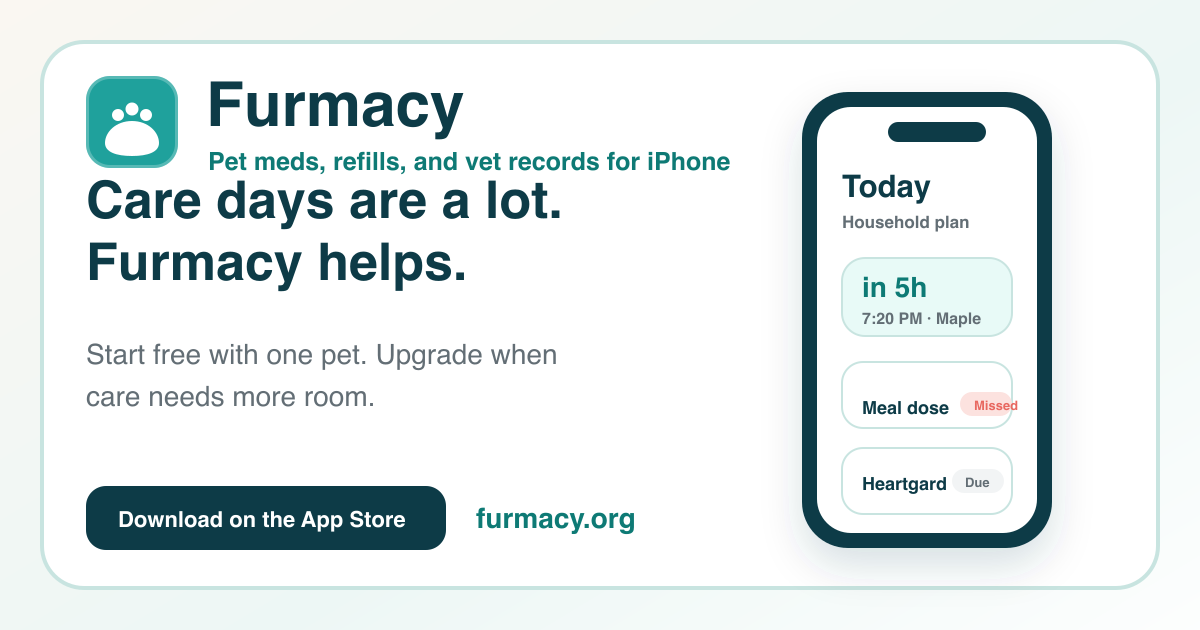
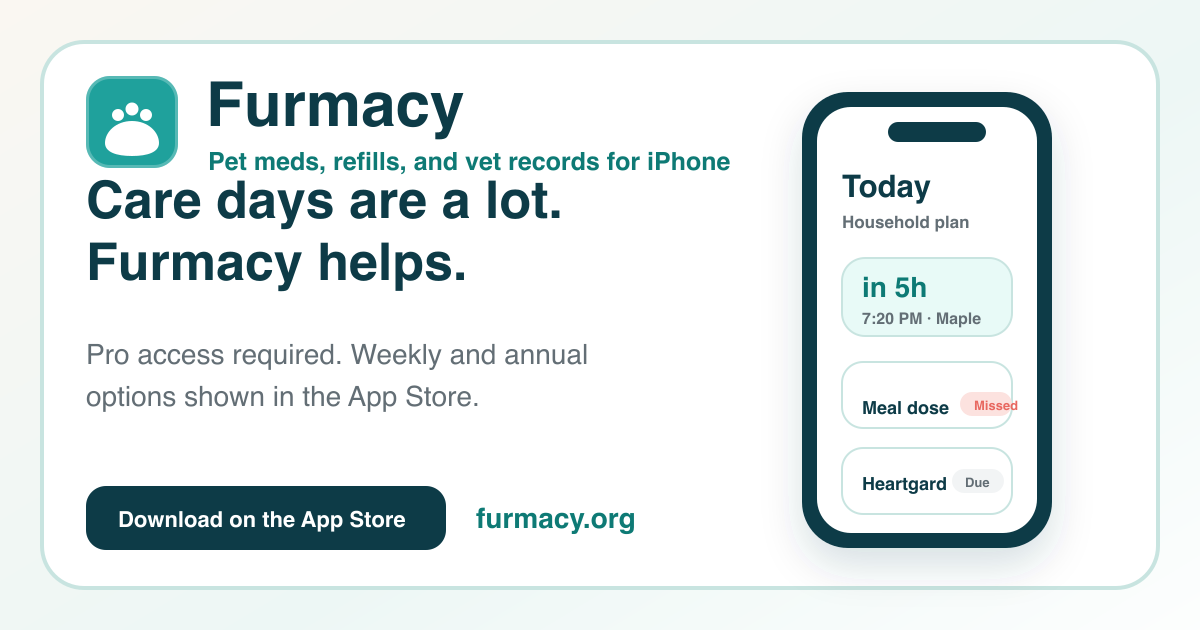
Update Furmacy paid-access website copy

Changed region(s): [[0.0617, 0.5429, 0.4933, 0.6635]]

diff --git a/lib/marketing.ts b/lib/marketing.ts
@@ -7,6 +7,115 @@ export const launchPricing = {
   summary: "Weekly and annual Pro options; annual includes a 14-day trial for eligible subscribers.",
 } as const;
 
+export const offerMode = "paidOnly" as const;
+
+export const offerCopyByMode = {
+  paidOnly: {
+    highlights: [
+      "Now on the App Store",
+      "Pro access required",
+      "Built for iPhone",
+      "No Furmacy account",
+    ],
+    heroBody:
+      "When your dog, cat, or other companion needs ongoing care, Furmacy gives you a gentle place to track what is due, what happened, refills, weight and symptom notes, and vet records. Download it on iPhone and choose Pro access to use the care tools.",
+    heroBullets: [
+      "See what needs attention today",
+      "Mark Given, Skip, Pending, or Missed",
+      "Keep refills and vet records close",
+      "Choose weekly or annual Pro access",
+    ],
+    heroFinePrint:
+      "Furmacy currently requires Pro access. Pro offers weekly and annual options; annual includes a 14-day trial for eligible subscribers. Exact live pricing is shown before purchase in the App Store. Furmacy is not veterinary advice.",
+    screenshotCalloutTitle: "Care routines, easier to follow",
+    screenshotCalloutBody:
+      "A calmer place for doses, refills, notes, weight, symptoms, and records when your pet needs steady follow-through.",
+    proHeading: "Furmacy currently requires Pro access.",
+    proSubtitle:
+      "Download Furmacy from the App Store, then choose weekly or annual Pro access to use reminders, records, history, and sync.",
+    planComparison: [
+      {
+        name: "Pro access",
+        note: "Required to use Furmacy",
+        items: [
+          "Medication reminders",
+          "Dose states and history",
+          "Refills, weight, symptoms, and vet records",
+          "Weekly or annual options",
+        ],
+      },
+      {
+        name: "Annual Pro",
+        note: "For ongoing care",
+        items: [
+          "14-day trial for eligible subscribers",
+          "Unlimited pets",
+          "Unlimited active medications",
+          "iCloud sync and expanded documents",
+        ],
+      },
+    ],
+    ctaTitle: "Ready for a calmer care routine?",
+    ctaBody:
+      "Download Furmacy from the App Store and choose Pro access when you are ready to keep meds, refills, history, and records in one place.",
+    rollbackNote:
+      "Rollback path: change offerMode to onePetFree if the ad test moves back to a free starter plan.",
+  },
+  onePetFree: {
+    highlights: [
+      "Now on the App Store",
+      "One pet free",
+      "Built for iPhone",
+      "No account required",
+    ],
+    heroBody:
+      "When your dog, cat, or other companion needs ongoing care, Furmacy gives you a gentle place to track what is due, what happened, refills, weight and symptom notes, and vet records. Download it free on iPhone and start with one pet.",
+    heroBullets: [
+      "See what needs attention today",
+      "Mark Given, Skip, Pending, or Missed",
+      "Keep refills and vet records close",
+      "Upgrade only when care needs more room",
+    ],
+    heroFinePrint:
+      "Use the free one-pet plan as long as it fits. Pro offers weekly and annual options; annual includes a 14-day trial for eligible subscribers. Exact live pricing is shown before purchase in the App Store. Furmacy is not veterinary advice.",
+    screenshotCalloutTitle: "Care routines, easier to follow",
+    screenshotCalloutBody:
+      "A calmer place for doses, refills, notes, weight, symptoms, and records when your pet needs steady follow-through.",
+    proHeading: "Use it free for one pet. Upgrade only when you need more room.",
+    proSubtitle:
+      "Start with the core routine at no cost. Pro is there for bigger care setups: unlimited pets, unlimited active medications, iCloud sync, full history, and expanded documents.",
+    planComparison: [
+      {
+        name: "Free",
+        note: "Start with one pet",
+        items: [
+          "One pet",
+          "Medication reminders",
+          "Dose states",
+          "Refill, weight, symptom, and vet-record basics",
+        ],
+      },
+      {
+        name: "Pro",
+        note: "When care needs more room",
+        items: [
+          "Unlimited pets",
+          "Unlimited active medications",
+          "Full history",
+          "iCloud sync and expanded documents",
+        ],
+      },
+    ],
+    ctaTitle: "Care days are a lot. Furmacy helps make them easier to follow.",
+    ctaBody:
+      "Start free with one pet, then upgrade when unlimited pets, medications, full history, iCloud sync, and expanded documents would make life calmer.",
+    rollbackNote:
+      "This mode is the rollback option for restoring the free one-pet starter plan.",
+  },
+} as const;
+
+export const offerCopy = offerCopyByMode[offerMode];
+
 export const heroScreenshots = [
   {
     src: "/screenshots/scenarios/maple-dog-today-plan.png",
@@ -23,10 +132,7 @@ export const heroScreenshots = [
 ] as const;
 
 export const launchHighlights = [
-  "Now on the App Store",
-  "One pet free",
-  "Built for iPhone",
-  "No account required",
+  ...offerCopy.highlights,
 ] as const;
 
 export const productTour = [
@@ -137,7 +243,7 @@ export const valuePoints: readonly ValuePoint[] = [
   {
     icon: "calendar",
     title: "Useful without a project",
-    body: "Add one pet, add the meds, see today, and mark Given or Skip without rebuilding your whole routine.",
+    body: "Add the pet you are caring for, add the meds, see today, and mark Given or Skip without rebuilding your whole routine.",
   },
   {
     icon: "check",

diff --git a/components/marketing/Hero.tsx b/components/marketing/Hero.tsx
@@ -1,6 +1,6 @@
 import Image from "next/image";
 import Link from "next/link";
-import { heroScreenshots, launchHighlights, launchPricing } from "@/lib/marketing";
+import { heroScreenshots, launchHighlights, offerCopy } from "@/lib/marketing";
 import { AppStoreButton } from "../AppStoreButton";
 import { Icon } from "../icons";
 
@@ -24,10 +24,7 @@ export function Hero() {
             Pet medication reminders for the pets you love.
           </h1>
           <p className="mt-4 max-w-xl text-base leading-relaxed text-text-secondary sm:mt-5 sm:text-lg">
-            When your dog, cat, or other companion needs ongoing care, Furmacy
-            gives you a gentle place to track what is due, what happened, refills,
-            weight and symptom notes, and vet records. Download it free on iPhone
-            and start with one pet.
+            {offerCopy.heroBody}
           </p>
 
           <div className="mx-auto mt-4 h-[230px] w-[min(72vw,245px)] overflow-hidden rounded-[1.8rem] border border-border bg-surface shadow-card sm:hidden">
@@ -43,12 +40,7 @@ export function Hero() {
           </div>
 
           <ul className="mt-6 hidden max-w-xl gap-3 text-[15px] leading-relaxed text-text sm:grid sm:grid-cols-2">
-            {[
-              "See what needs attention today",
-              "Mark Given, Skip, Pending, or Missed",
-              "Keep refills and vet records close",
-              "Upgrade only when care needs more room",
-            ].map((item) => (
+            {offerCopy.heroBullets.map((item) => (
               <li key={item} className="flex items-start gap-2.5">
                 <Icon name="check" className="mt-0.5 h-4 w-4 flex-none text-accent-strong" />
                 <span>{item}</span>
@@ -68,9 +60,7 @@ export function Hero() {
           </div>
 
           <p className="mt-4 max-w-xl text-sm leading-relaxed text-text-secondary">
-            Use the free one-pet plan as long as it fits. Pro offers{" "}
-            {launchPricing.summary} Exact live pricing is shown before purchase
-            in the App Store. Furmacy is not veterinary advice.
+            {offerCopy.heroFinePrint}
           </p>
         </div>
 
@@ -111,9 +101,9 @@ export function Hero() {
             />
           </div>
           <div className="absolute bottom-0 left-1/2 w-[min(92%,420px)] -translate-x-1/2 rounded-card border border-border bg-surface/95 p-4 shadow-card backdrop-blur">
-            <p className="text-sm font-semibold text-text">Fictional pet data, real product UI</p>
+            <p className="text-sm font-semibold text-text">{offerCopy.screenshotCalloutTitle}</p>
             <p className="mt-1 text-xs leading-relaxed text-text-secondary">
-              Screenshots use fictional pet profiles and stock-photo avatars for marketing previews.
+              {offerCopy.screenshotCalloutBody}
             </p>
           </div>
         </div>

diff --git a/lib/useCases.ts b/lib/useCases.ts
@@ -45,7 +45,7 @@ export const useCases = [
       "Track today's senior dog medication schedule",
       "Mark doses Given, Skipped, Pending, or Missed",
       "Keep refill and vet details near the medication",
-      "Use one pet free, then upgrade to Pro if the routine grows",
+      "Choose weekly or annual Pro access when you are ready to use Furmacy",
     ],
     sections: [
       {
@@ -165,7 +165,7 @@ export const useCases = [
     title: "A multi-pet medication tracker for households with more to coordinate",
     metaTitle: "Multi-Pet Medication Tracker App",
     description:
-      "Furmacy starts with one pet free and offers Pro for households that need unlimited pets, unlimited active medications, iCloud sync, full history, and expanded documents.",
+      "Furmacy currently requires Pro access and supports households that need unlimited pets, unlimited active medications, iCloud sync, full history, and expanded documents.",
     eyebrow: "Multi-pet homes",
     image: {
       src: "/screenshots/scenarios/maple-dog-today-plan.png",
@@ -180,8 +180,8 @@ export const useCases = [
     intro:
       "One pet can be simple. Two, three, or four pets can turn into a lot of tiny details: who needs what, what was given, which refill is low, and where the records live. Furmacy gives each pet their own care context.",
     bullets: [
-      "Start with one pet free",
-      "Upgrade to Pro for unlimited pets and active medications",
+      "Choose Pro access to use Furmacy",
+      "Track unlimited pets and active medications with Pro",
       "Keep records, symptoms, weight, and dose history attached to the right pet",
       "Use iCloud sync with Pro across Apple devices",
     ],
@@ -198,7 +198,7 @@ export const useCases = [
     faqs: [
       {
         q: "Can Furmacy manage more than one pet?",
-        a: "Yes. One pet is free. Furmacy Pro unlocks unlimited pets and unlimited active medications.",
+        a: "Yes. Furmacy Pro supports unlimited pets and unlimited active medications.",
       },
       {
         q: "Does Furmacy support different kinds of pets?",

diff --git a/lib/faq.ts b/lib/faq.ts
@@ -10,7 +10,7 @@ export interface Faq {
 export const faqs: readonly Faq[] = [
   {
     q: "What is Furmacy?",
-    a: "Furmacy is a free-to-download, privacy-first iPhone app that helps pet caregivers manage medication reminders, dose history, refills, weight and symptom tracking, and vet records. You can start with one pet for free, and Furmacy Pro unlocks unlimited pets, unlimited active medications, full history, iCloud sync, and expanded records.",
+    a: "Furmacy is a privacy-first iPhone app that helps pet caregivers manage medication reminders, dose history, refills, weight and symptom tracking, and vet records. Furmacy currently requires Pro access, with weekly and annual options shown by the App Store before purchase.",
   },
   {
     q: "What kinds of pets does Furmacy support?",
@@ -30,7 +30,7 @@ export const faqs: readonly Faq[] = [
   },
   {
     q: "Can I track more than one pet?",
-    a: "Yes. One pet is included free, and Furmacy Pro unlocks unlimited pets and unlimited active medications for households that need more room.",
+    a: "Yes. Furmacy Pro supports unlimited pets and unlimited active medications for households that need more room.",
   },
   {
     q: "Can Furmacy help with family or sitter handoffs?",
@@ -50,7 +50,7 @@ export const faqs: readonly Faq[] = [
   },
   {
     q: "How much does Furmacy cost?",
-    a: "Furmacy is free to download and supports one pet for free. Furmacy Pro has weekly and annual subscription options, and annual includes a 14-day trial for eligible subscribers. Exact live pricing is shown by the App Store before purchase.",
+    a: "Furmacy currently requires Pro access to use the app. Furmacy Pro has weekly and annual subscription options, and annual includes a 14-day trial for eligible subscribers. Exact live pricing is shown by the App Store before purchase.",
   },
   {
     q: "How do I get Furmacy?",

diff --git a/components/marketing/ProOffer.tsx b/components/marketing/ProOffer.tsx
@@ -1,21 +1,10 @@
 import Link from "next/link";
-import { launchPricing, proBenefits, valuePoints } from "@/lib/marketing";
+import { launchPricing, offerCopy, proBenefits, valuePoints } from "@/lib/marketing";
 import { AppStoreButton } from "../AppStoreButton";
 import { Icon } from "../icons";
 import { SectionHeading } from "./SectionHeading";
 
-const PLAN_COMPARISON = [
-  {
-    name: "Free",
-    note: "Start with one pet",
-    items: ["One pet", "Medication reminders", "Dose states", "Refill, weight, symptom, and vet-record basics"],
-  },
-  {
-    name: "Pro",
-    note: "When care needs more room",
-    items: ["Unlimited pets", "Unlimited active medications", "Full history", "iCloud sync and expanded documents"],
-  },
-] as const;
+const PLAN_COMPARISON = offerCopy.planComparison;
 
 export function ProOffer() {
   return (
@@ -25,8 +14,8 @@ export function ProOffer() {
           <div>
             <SectionHeading
               eyebrow="Furmacy Pro"
-              title="Use it free for one pet. Upgrade only when you need more room."
-              subtitle="Start with the core routine at no cost. Pro is there for bigger care setups: unlimited pets, unlimited active medications, iCloud sync, full history, and expanded documents."
+              title={offerCopy.proHeading}
+              subtitle={offerCopy.proSubtitle}
             />
 
             <div className="mt-7 grid gap-3 sm:grid-cols-2">

diff --git a/lib/site.ts b/lib/site.ts
@@ -16,7 +16,7 @@ export const site = {
   tagline: "Pet meds, refills, and vet records, easier to keep up with.",
   // One-sentence, entity-clear description reused in metadata, JSON-LD, and llms.txt.
   description:
-    "Furmacy is a free-to-download iPhone pet medication reminder app for dose history, refills, weight and symptom logs, vet records, senior pet care, chronic routines, and multi-pet households.",
+    "Furmacy is a paid-access iPhone pet medication reminder app for dose history, refills, weight and symptom logs, vet records, senior pet care, chronic routines, and multi-pet households.",
   url: SITE_URL,
 
   // Company / legal. TODO: confirm entity details and governing law with counsel.
@@ -74,7 +74,7 @@ export const features: readonly Feature[] = [
   },
   {
     icon: "users",
-    title: "Pro when care needs more room",
-    body: "Upgrade for unlimited pets and medications, full history, iCloud sync, and expanded records.",
+    title: "Pro access for care routines",
+    body: "Pro access supports unlimited pets and medications, full history, iCloud sync, and expanded records.",
   },
 ];

diff --git a/components/marketing/CtaBand.tsx b/components/marketing/CtaBand.tsx
@@ -1,6 +1,7 @@
 import { AppStoreButton } from "../AppStoreButton";
 import Link from "next/link";
 import { Icon } from "../icons";
+import { offerCopy } from "@/lib/marketing";
 
 export function CtaBand() {
   return (
@@ -8,11 +9,10 @@ export function CtaBand() {
       <div className="mx-auto max-w-intake px-5 sm:px-8">
         <div className="relative overflow-hidden rounded-[28px] border border-border bg-gradient-to-br from-hero to-muted px-6 py-12 text-center sm:px-12 sm:py-16">
           <h2 className="mx-auto max-w-2xl text-3xl font-bold text-text sm:text-4xl">
-            Care days are a lot. Furmacy helps make them easier to follow.
+            {offerCopy.ctaTitle}
           </h2>
           <p className="mx-auto mt-3 max-w-xl text-[15px] leading-relaxed text-text-secondary">
-            Start free with one pet, then upgrade when unlimited pets, medications,
-            full history, iCloud sync, and expanded documents would make life calmer.
+            {offerCopy.ctaBody}
           </p>
           <div className="mt-8 flex flex-wrap justify-center gap-3">
             <AppStoreButton />

diff --git a/components/marketing/WhoItsFor.tsx b/components/marketing/WhoItsFor.tsx
@@ -17,7 +17,7 @@ const CONDITIONS = [
 const AUDIENCES = [
   { icon: "heart", title: "Senior dogs and cats", body: "When the routine has more check-ins than it used to, Furmacy keeps the next step easier to see." },
   { icon: "pill", title: "Chronic medication routines", body: "Keep schedules, refills, notes, and dose history together for pets who need steady follow-through." },
-  { icon: "users", title: "Multi-pet homes", body: "Give each pet their own care context, then upgrade to Pro when one free pet is not enough room." },
+  { icon: "users", title: "Multi-pet homes", body: "Give each pet their own care context, with Pro built for unlimited pets and active medications." },
   { icon: "paw", title: "Family and sitter handoffs", body: "Make it easier for the next helper to see what was given, skipped, missed, or still pending." },
 ] as const;
 

diff --git a/app/beta/page.tsx b/app/beta/page.tsx
@@ -21,10 +21,9 @@ export default function BetaPage() {
         Furmacy is ready to download.
       </h1>
       <p className="mx-auto mt-4 max-w-2xl text-base leading-relaxed text-text-secondary sm:text-lg">
-        The old intake page has been retired. Furmacy is now a free-to-download
-        iPhone app, and you can try it with one pet for free before deciding
-        whether Pro is useful for unlimited pets, medications, sync, history,
-        and expanded records.
+        The old intake page has been retired. Furmacy is now on the App Store,
+        and the current version requires Pro access to use medication
+        reminders, history, refills, sync, and expanded records.
       </p>
       <div className="mt-8 flex flex-wrap justify-center gap-3">
         <AppStoreButton />

diff --git a/app/page.tsx b/app/page.tsx
@@ -14,7 +14,7 @@ import { faqPageLd, softwareApplicationLd } from "@/lib/structuredData";
 
 export const metadata: Metadata = {
   description:
-    "Furmacy is a free-to-download iPhone pet medication reminder app for dose history, refills, weight and symptom logs, vet records, senior pet care, chronic routines, and multi-pet households.",
+    "Furmacy is a paid-access iPhone pet medication reminder app for dose history, refills, weight and symptom logs, vet records, senior pet care, chronic routines, and multi-pet households.",
   alternates: { canonical: "/" },
 };
 

diff --git a/components/marketing/HowItWorks.tsx b/components/marketing/HowItWorks.tsx
@@ -14,8 +14,8 @@ const STEPS: { icon: IconName; title: string; body: string }[] = [
   },
   {
     icon: "users",
-    title: "Upgrade if care grows",
-    body: "Use Pro when unlimited pets and medications, full history, iCloud sync, and expanded records would make the routine easier.",
+    title: "Choose Pro access",
+    body: "Furmacy currently requires Pro access, with weekly and annual options shown by the App Store before purchase.",
   },
 ];
 

diff --git a/components/marketing/PrivacyFirst.tsx b/components/marketing/PrivacyFirst.tsx
@@ -10,8 +10,8 @@ const POINTS: { icon: IconName; title: string; body: string }[] = [
   },
   {
     icon: "user",
-    title: "No account required",
-    body: "Start using Furmacy without signing up. No email, no password, no profile to create.",
+    title: "No Furmacy account required",
+    body: "Pro access is handled through the App Store. Furmacy does not ask you to create a separate login.",
   },
   {
     icon: "shield-check",
